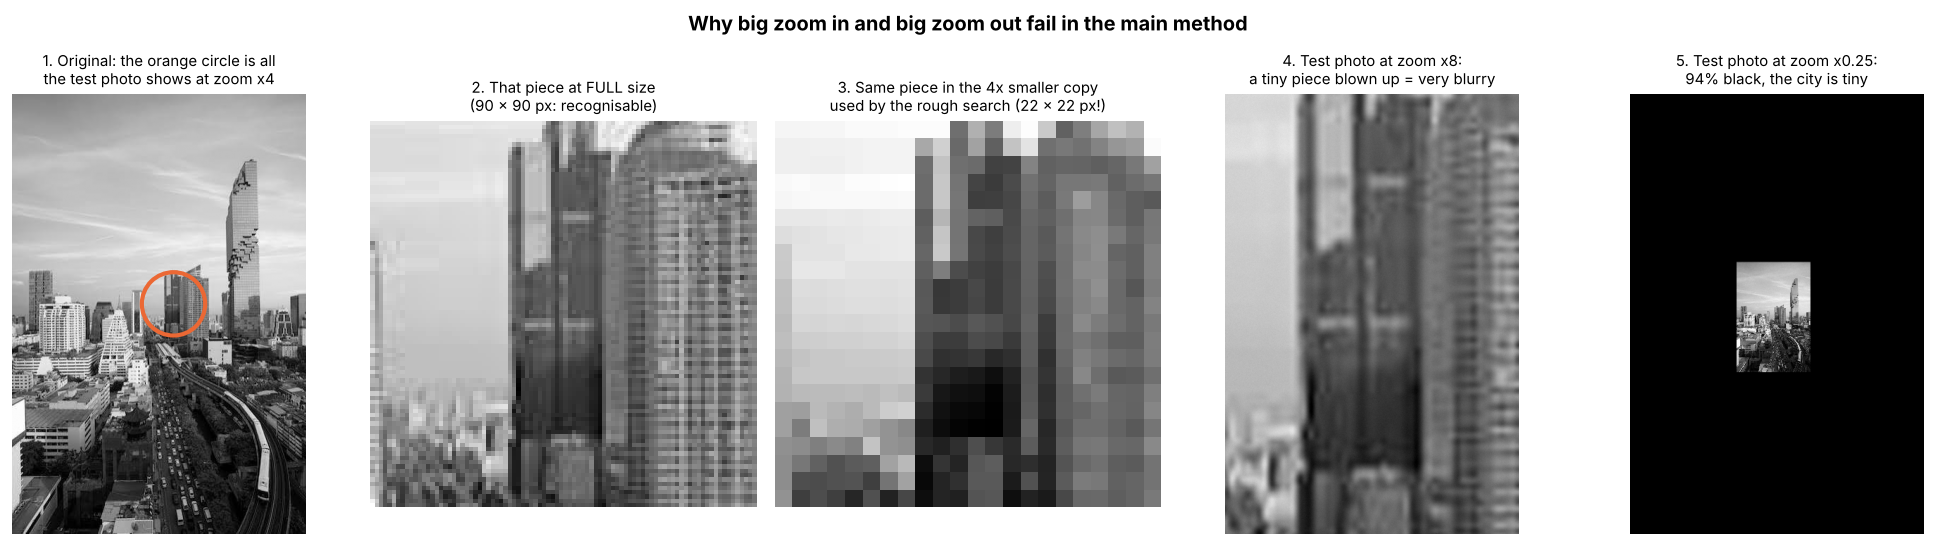
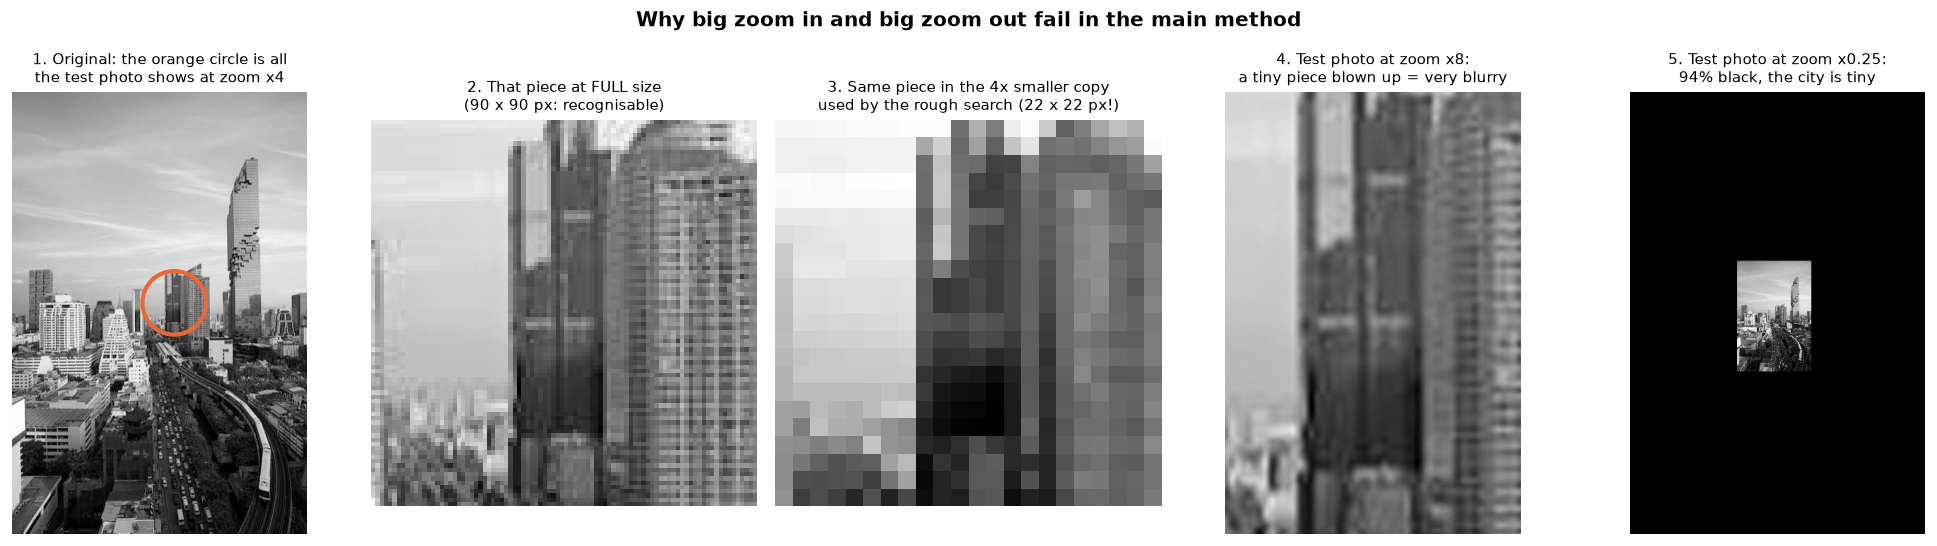
Step 13: journal entry for the teacher presentation document
Claude-Session: https://claude.ai/code/session_01RXpx79UWUGNuF9rDP5hVa9

diff --git a/JOURNAL.md b/JOURNAL.md
@@ -408,3 +408,12 @@ I may mention later. Folder: `experiments/zoom_fix/` (README there explains ever
 - Experiment: **×0.35 – ×5** (like the paper's "×4 in practice"). Price: ~60 s instead of ~10–20 s.
 - Still fails: ×0.25 (city too tiny) and ×6+ (test photo too blurry; would need a bigger photo).
 - Picture explaining why: `experiments/zoom_fix/why_zoom_fails.png`.
+
+## Step 13 – Presentation script and code guide for my teacher (2026-11-05)
+**Did:** a document (Claude Doc) with: the spoken script (what to say + what to show, ~5–7 min),
+the big idea explained simply with examples, each step with its results, the comparison with my
+classmate, the paper comparison and zoom limits, every script explained function by function,
+likely teacher questions with answers, and a demo checklist.
+Link: https://claude.ai/artifact/15uHsq92yXcfQCxybAuw4B
+**Next:** practise the script once out loud; ask Claude about anything I don't understand.
+
